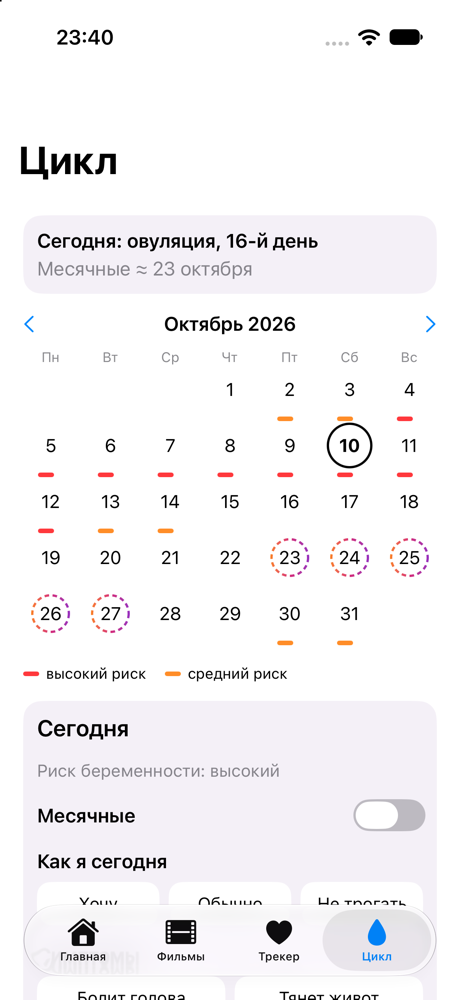
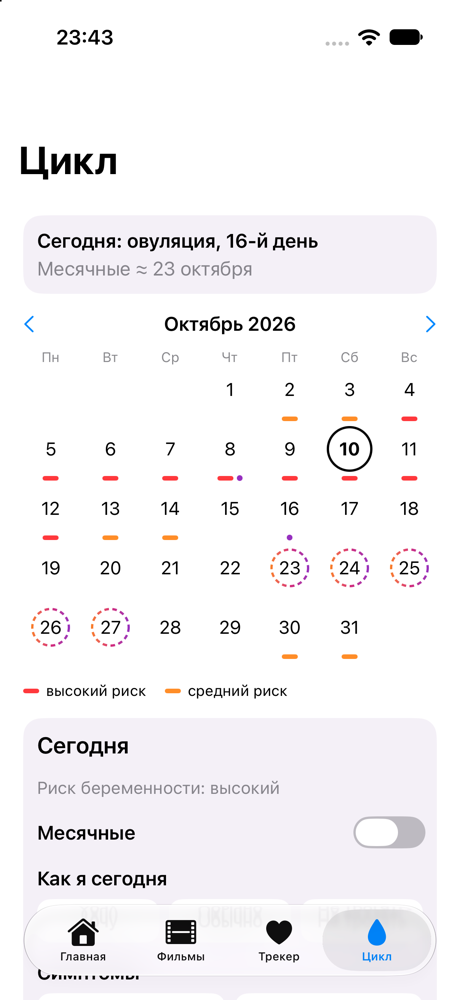
Выровнять отметки дня и легенду риска
Полоска и точка симптомов по центру, когда отметка одна; запас снизу,
чтобы полоска не прилипала к заливке фазы; легенда переносится при
крупном шрифте; RiskMark в отдельном файле.

diff --git a/App/OneToOne/Features/Cycle/MonthGridView.swift b/App/OneToOne/Features/Cycle/MonthGridView.swift
@@ -100,14 +100,22 @@ private struct DayCell: View {
                         Circle().strokeBorder(.primary, lineWidth: 2).padding(-3)
                     }
                 }
+            // Рисуем только то, что есть: одна отметка стоит по центру, две — парой.
+            // Зелёной полоски нет: «пустой» день не должен выглядеть разрешением.
             HStack(spacing: 3) {
-                // Зелёной полоски нет: «пустой» день не должен выглядеть разрешением.
-                RiskMark(color: risk?.markColor)
-                Circle()
-                    .fill(hasSymptoms ? BrandColor.purple.color : .clear)
-                    .frame(width: 5, height: 5)
+                if let color = risk?.markColor {
+                    RiskMark(color: color)
+                }
+                if hasSymptoms {
+                    Circle()
+                        .fill(BrandColor.purple.color)
+                        .frame(width: 5, height: 5)
+                }
             }
+            .frame(height: 5)
         }
+        // Запас снизу, чтобы полоска не прилипала к краю заливки фазы.
+        .padding(.bottom, 3)
         .frame(maxWidth: .infinity, minHeight: 44)
         .background {
             if let tint = phase?.tint(colorScheme) {

diff --git a/App/OneToOne/Features/Cycle/RiskLegend.swift b/App/OneToOne/Features/Cycle/RiskLegend.swift
@@ -4,30 +4,24 @@ import SwiftUI
 /// Строка под календарём: какие полоски что значат. Низкого риска тут нет, у него полоски нет.
 struct RiskLegend: View {
     var body: some View {
-        HStack(spacing: 16) {
-            item(.high, "высокий риск")
-            item(.medium, "средний риск")
+        // При крупном шрифте в строку не влезает — ставим друг под другом.
+        ViewThatFits {
+            HStack(spacing: 16) { items }
+            VStack(alignment: .leading, spacing: 6) { items }
         }
         .font(.footnote)
     }
 
+    @ViewBuilder private var items: some View {
+        item(.high, "высокий риск")
+        item(.medium, "средний риск")
+    }
+
     private func item(_ risk: PregnancyRisk, _ title: String) -> some View {
         HStack(spacing: 6) {
-            RiskMark(color: risk.markColor)
+            RiskMark(color: risk.markColor ?? .clear)
             Text(title)
         }
-    }
-}
-
-/// Короткая полоска риска: под числом дня в календаре и в легенде.
-struct RiskMark: View {
-    let color: Color?
-
-    var body: some View {
-        Capsule()
-            .fill(color ?? .clear)
-            .frame(width: 14, height: 4)
-            .accessibilityHidden(true)
     }
 }
 

diff --git a/App/OneToOne/Features/Cycle/RiskMark.swift b/App/OneToOne/Features/Cycle/RiskMark.swift
@@ -1,0 +1,13 @@
+import SwiftUI
+
+/// Короткая полоска риска: под числом дня в календаре и в легенде.
+struct RiskMark: View {
+    let color: Color
+
+    var body: some View {
+        Capsule()
+            .fill(color)
+            .frame(width: 14, height: 4)
+            .accessibilityHidden(true)
+    }
+}
